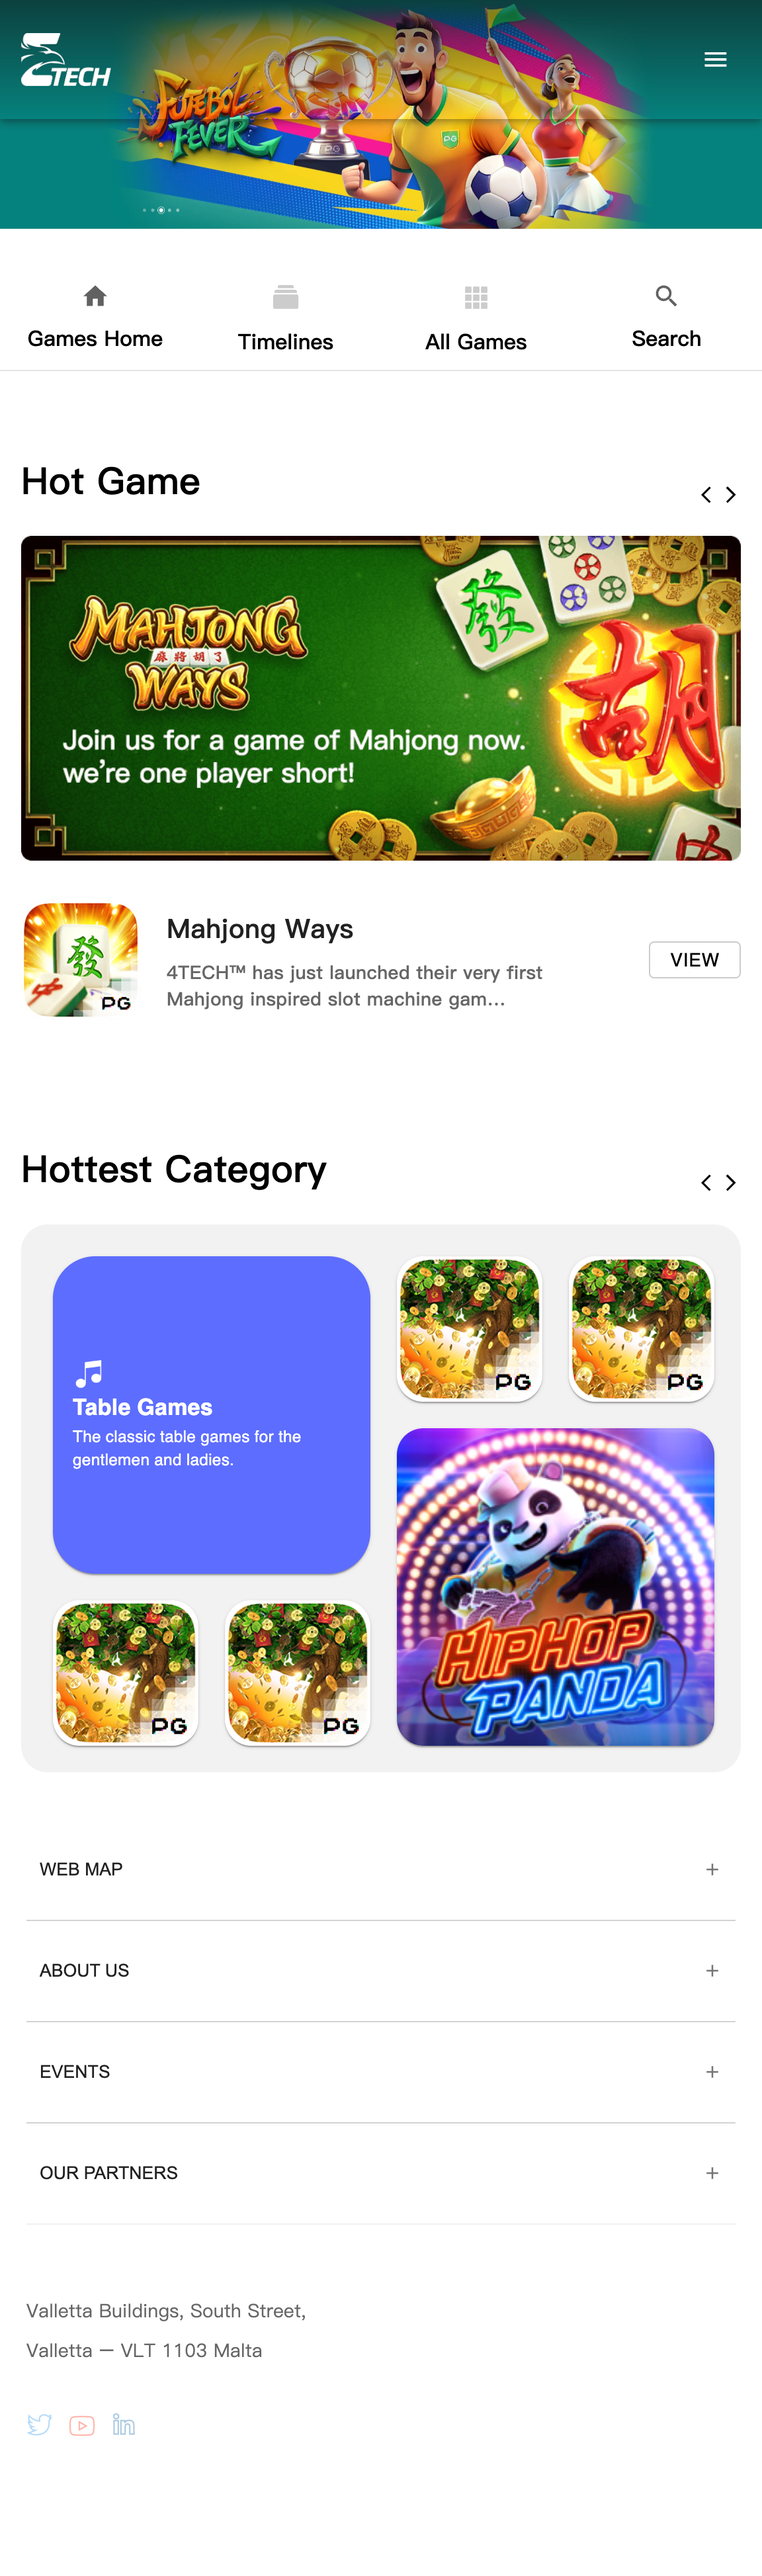
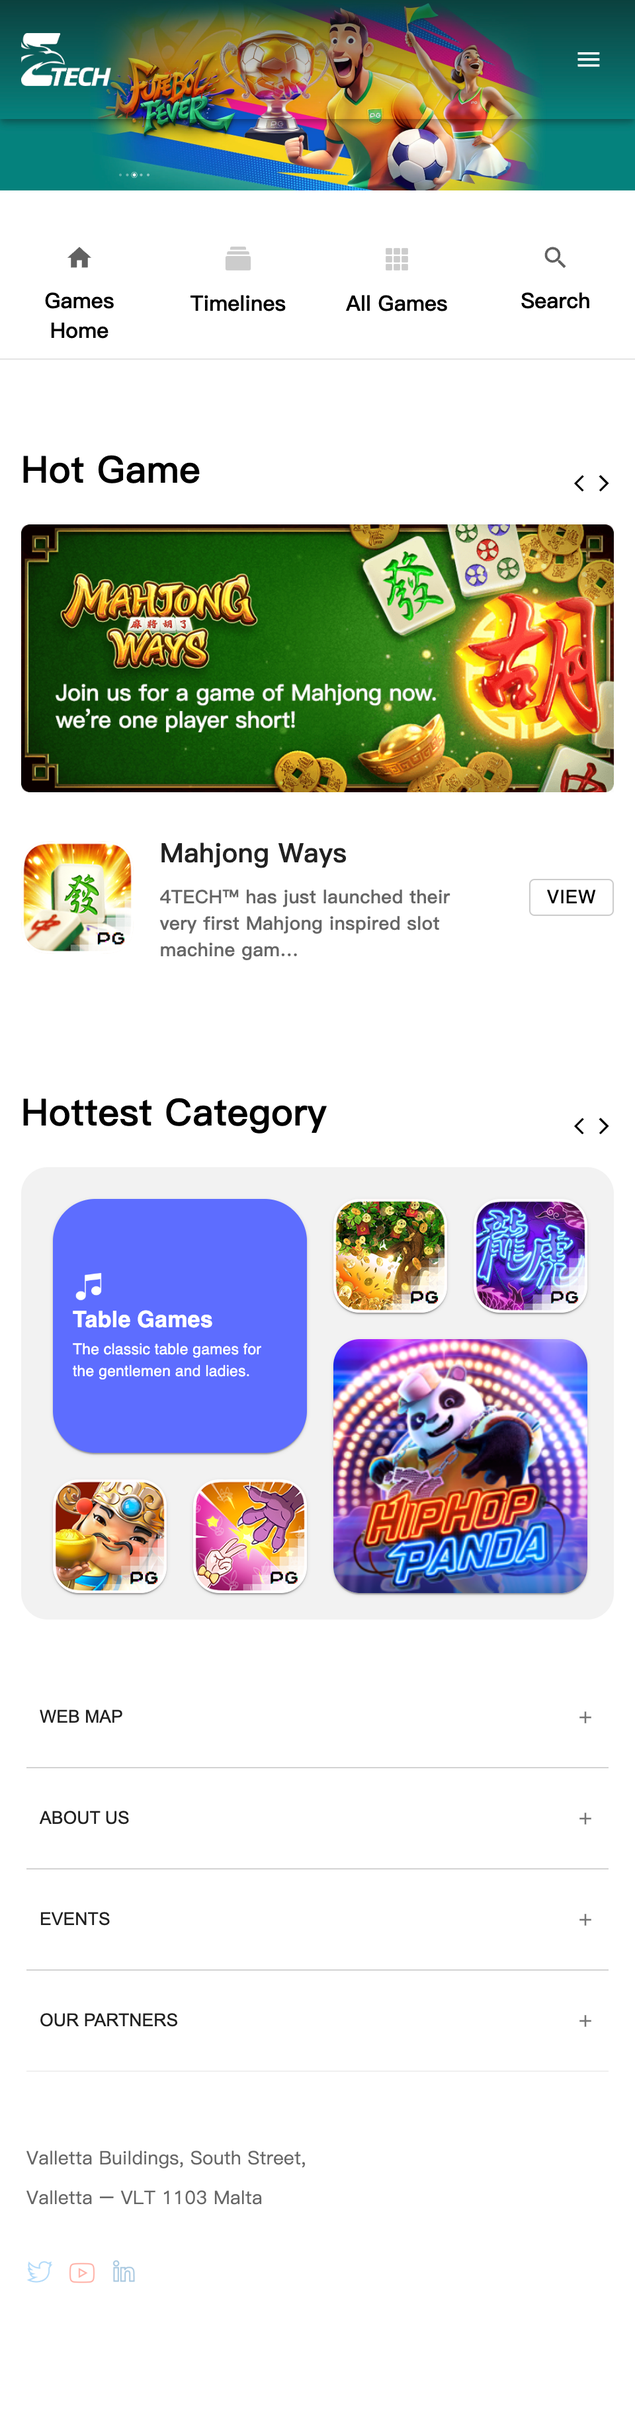
Feat: readme

diff --git a/src/utils/constants.ts b/src/utils/constants.ts
@@ -1,5 +1,8 @@
 import Category from "../assets/images/category.png";
 import CategorySmall from "../assets/images/category-small.png";
+import CategorySmall1 from "../assets/images/category1.png";
+import CategorySmall2 from "../assets/images/category2.png";
+import CategorySmall3 from "../assets/images/category3.png";
 import HomeGame from "./../assets/images/game.png";
 import WildGame from "./../assets/images/wild.png";
 import WildGameSmall from "./../assets/images/wild_small.png";
@@ -25,7 +28,7 @@ export const hottestCategory = [
       type: "image",
     },
     {
-      src: CategorySmall,
+      src: CategorySmall1,
       className: "",
       type: "image",
     },
@@ -35,12 +38,12 @@ export const hottestCategory = [
       type: "image",
     },
     {
-      src: CategorySmall,
+      src: CategorySmall2,
       className: "",
       type: "image",
     },
     {
-      src: CategorySmall,
+      src: CategorySmall3,
       className: "",
       type: "image",
     },
@@ -61,7 +64,7 @@ export const hottestCategory = [
       type: "image",
     },
     {
-      src: CategorySmall,
+      src: CategorySmall1,
       className: "",
       type: "image",
     },
@@ -71,12 +74,12 @@ export const hottestCategory = [
       type: "image",
     },
     {
-      src: CategorySmall,
+      src: CategorySmall2,
       className: "",
       type: "image",
     },
     {
-      src: CategorySmall,
+      src: CategorySmall3,
       className: "",
       type: "image",
     },
@@ -97,7 +100,7 @@ export const hottestCategory = [
       type: "image",
     },
     {
-      src: CategorySmall,
+      src: CategorySmall1,
       className: "",
       type: "image",
     },
@@ -107,12 +110,12 @@ export const hottestCategory = [
       type: "image",
     },
     {
-      src: CategorySmall,
+      src: CategorySmall2,
       className: "",
       type: "image",
     },
     {
-      src: CategorySmall,
+      src: CategorySmall3,
       className: "",
       type: "image",
     },

diff --git a/README.md b/README.md
@@ -1,7 +1,14 @@
 # Nevel Tech
 
-## Web:
-![Web Image](./src/assets/images/web.png)
 
-## Mobile:
-![Mobile Image](./src/assets/images/mobile.png)
+## Links
+- **GitHub Repository**: [Nevel Tech](https://github.com/TruongThanhHieu215/Nevel_Tech)
+- **Deployed Application**: [Nevel Tech on Vercel](https://nevel-tech-nine.vercel.app/)
+
+## Screenshots
+
+### Web
+![Web Interface](./src/assets/images/web.png)
+
+### Mobile
+![Mobile Interface](./src/assets/images/mobile.png)
